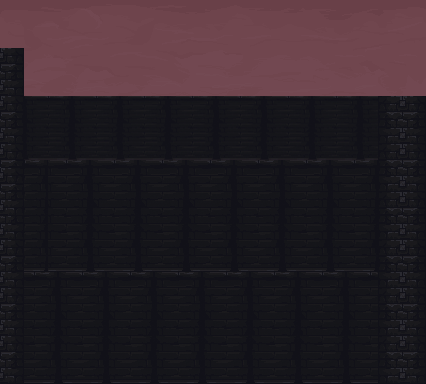
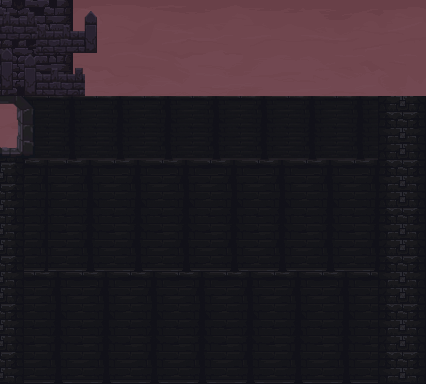
More work on A13

Changed region(s): [[0.0, 0.0, 0.2441, 0.4062]]

diff --git a/src/game/Game.java b/src/game/Game.java
@@ -165,11 +165,11 @@ public class Game extends Canvas implements Runnable{
 			// FOR DEMO PURPOSES
 
 			m.mapParser(currentLevel, "./src/game/segments/intersegmentA3.txt");
-			m.mapParser(currentLevel, "./src/game/segments/intersegmentA4.txt");
-			//m.mapParser(currentLevel, "./src/game/segments/segmentA13.txt");
-			m.mapParser(currentLevel, "./src/game/segments/introDimension.txt");
-			m.mapParser(currentLevel, "./src/game/segments/segmentA14.txt");
-			//m.mapParser(currentLevel, "./src/game/segments/segmentA13.txt");
+			//m.mapParser(currentLevel, "./src/game/segments/intersegmentA4.txt");
+			//m.mapParser(currentLevel, "./src/game/segments/introDimension.txt");
+			//m.mapParser(currentLevel, "./src/game/segments/segmentA14.txt");
+			m.mapParser(currentLevel, "./src/game/segments/segmentA13.txt");
+			m.mapParser(currentLevel, "./src/game/segments/intersegmentA3.txt");
 			//m.mapParser(currentLevel, "./src/game/segments/intersegmentA3.txt");
 
 		//	m.mapParser(currentLevel, "./src/game/segments/segmentA1X.txt"); 		// 1 - basic first one (numbers for demo)

diff --git a/src/game/entities/areas/RespawnPoint.java b/src/game/entities/areas/RespawnPoint.java
@@ -42,7 +42,7 @@ public class RespawnPoint extends Area {
 	}
 
 	public boolean getInteraction(AIPlayer aiPlayer){
-		return ((int)this.x<(int)aiPlayer.getX()+aiPlayer.getWidth() && (int)aiPlayer.getX()<this.x+this.width && (int)this.y-100<(int)aiPlayer.getY()+aiPlayer.getHeight() && (int)aiPlayer.getY() <(int)this.y+this.height);
+		return ((int)this.x<(int)aiPlayer.getX()+aiPlayer.getWidth() && (int)aiPlayer.getX()<this.x+this.width && (int)this.y-200<(int)aiPlayer.getY()+aiPlayer.getHeight() && (int)aiPlayer.getY() <(int)this.y+this.height);
 	}
 
 	public float getExtraPointX() {

diff --git a/src/game/entities/areas/Area.java b/src/game/entities/areas/Area.java
@@ -36,8 +36,8 @@ public class Area extends GameObject {
 
 	public void render(Graphics g, float f, float h) {
 
-			//g.setColor(Color.magenta);
-			//g.fillRect((int)(this.x + f),(int)(this.y + h),this.width,this.height);
+			g.setColor(Color.magenta);
+			g.fillRect((int)(this.x + f),(int)(this.y + h),this.width,this.height);
 			g.drawImage(img,(int)(this.x + f),(int)(this.y + h),null);
 	}
 
